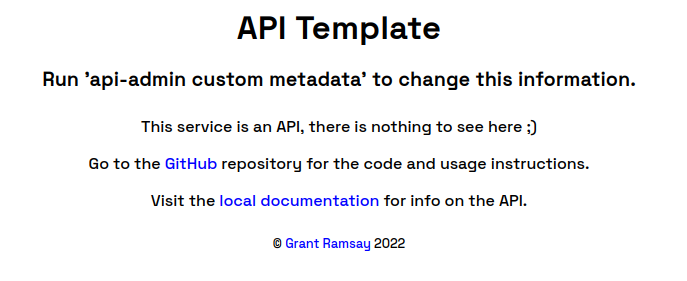
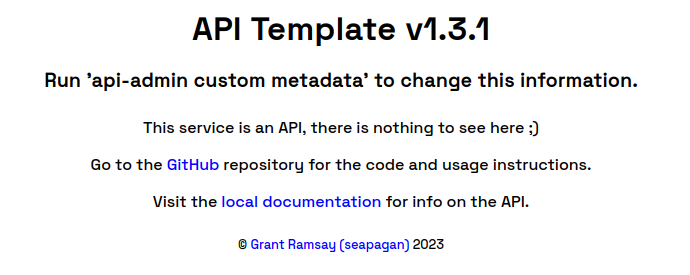
update README with recent changes

diff --git a/README.md b/README.md
@@ -233,10 +233,11 @@ custom_metadata = MetadataBase(
         "url": "https://opensource.org/licenses/MIT",
     },
     contact={
-        "name": "Grant Ramsay",
+        "name": "Grant Ramsay (seapagan)",
         "url": "https://www.gnramsay.com",
     },
     email="seapagan@gmail.com",
+    year="2023"
 )
 ```
 
@@ -258,24 +259,27 @@ API-Template : Customize application Metadata
 
 Enter your API title [API Template]:
 Enter the description [Run 'api-admin custom metadata' to change this information.]:
+Version Number (use * to reset to '0.0.1') [1.3.1]:
 URL to your Repository [https://github.com/seapagan/fastapi-template]:
 
-Choose a license from the following options.
+Choose a license from the following options:
 Apache2, BSD3, BSD2, GPL, LGPL, MIT, MPL2, CDDL, EPL
 Your Choice of License? [MIT]:
 
-Author name or handle [Grant Ramsay]:
+Author name or handle [Grant Ramsay (seapagan)]:
 Contact Email address [seapagan@gmail.com]:
 Author Website [https://www.gnramsay.com]:
 
 You have entered the following data:
 Title       : API Template
 Description : Run 'api-admin custom metadata' to change this information.
+Version     : 1.3.1
 Repository  : https://github.com/seapagan/fastapi-template
 License     : MIT
-Author      : Grant Ramsay
+Author      : Grant Ramsay (seapagan)
 Email       : seapagan@gmail.com
 Website     : https://www.gnramsay.com
+(C) Year    : 2023
 
 Is this Correct? [Y/n]: y
 
@@ -347,6 +351,9 @@ Options:
   -a, --admin TEXT       [required]
   --help                 Show this message and exit.
 ```
+
+Note that any user added manually this way will automatically be verified (no
+need for the confirmation email which will not be sent anyway.)
 
 ### Run a development Server
 
